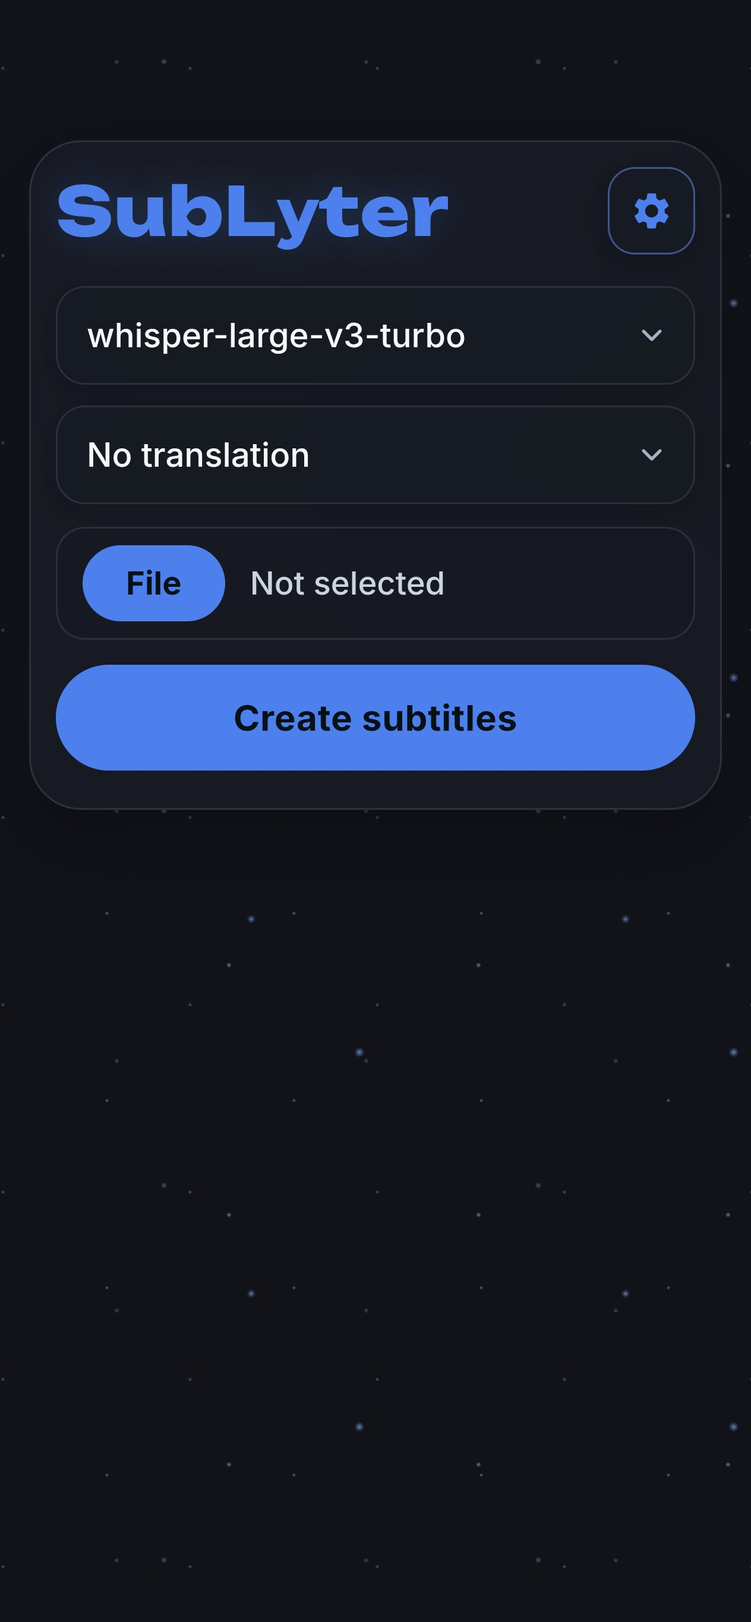
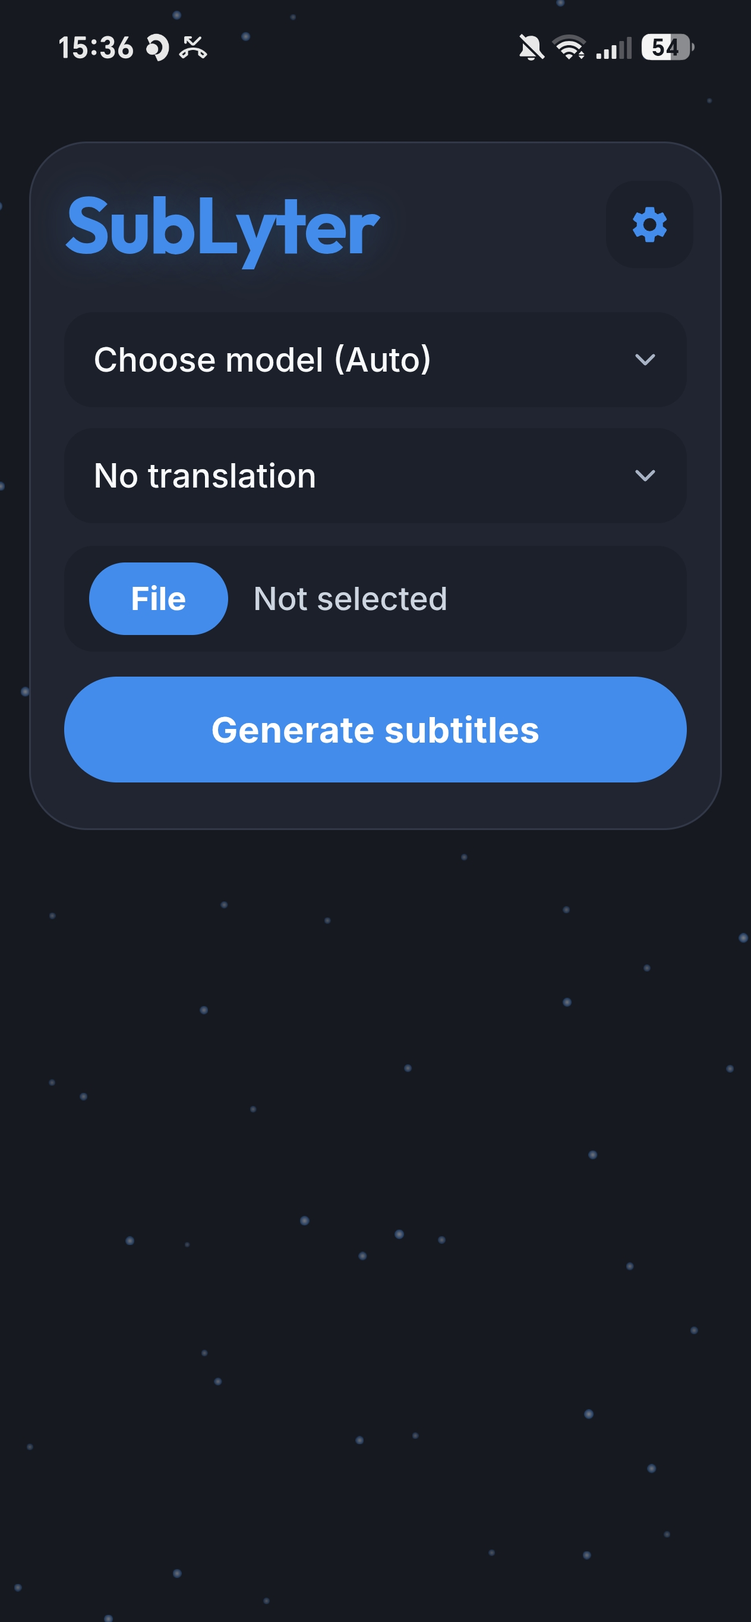
Update v1.0.79 screenshots and highlight Groq LPU ultra-fast inference

diff --git a/README.ru.md b/README.ru.md
@@ -9,13 +9,14 @@
 <h1>SubLyter</h1>
 
 <p>
-  <strong>Сверхбыстрая AI-студия субтитров, потоковый переводчик на 53 языка и мультимодальный видеоплеер с Gemini Q&amp;A для Android — в полноценном безрамочном интерфейсе Material You (Material 3).</strong>
+  <strong>Сверхбыстрая AI-студия субтитров на базе <a href="https://groq.com">Groq LPU™</a> (одного из самых быстрых AI-движков в мире), потоковый переводчик на 53 языка и мультимодальный видеоплеер с Gemini Q&amp;A для Android — в полноценном безрамочном интерфейсе Material You (Material 3).</strong>
 </p>
 
 <p>
   <a href="https://github.com/yusibov2026-hue/SubLater/releases/latest">
     <img src="https://img.shields.io/badge/Релиз-v1.0.79-1b8ef2?style=for-the-badge&logo=android&logoColor=white" alt="Последний релиз v1.0.79" />
   </a>
+  <img src="https://img.shields.io/badge/Groq%20LPU%E2%84%A2-Почти%20самый%20быстрый%20AI-f55036?style=for-the-badge&logo=lightning&logoColor=white" alt="На базе Groq LPU" />
   <img src="https://img.shields.io/badge/Android-7.0%2B%20(API%2024--34)-2ea043?style=for-the-badge&logo=android&logoColor=white" alt="Android 7.0+" />
   <img src="https://img.shields.io/badge/Kotlin%20%2B%20Compose-Media3%20ExoPlayer-7f52ff?style=for-the-badge&logo=kotlin&logoColor=white" alt="Kotlin Jetpack Compose Media3" />
   <img src="https://img.shields.io/badge/Дизайн-Material%20You%20(M3)-60a5fa?style=for-the-badge&logo=materialdesign&logoColor=white" alt="Material You M3" />
@@ -41,9 +42,9 @@
 
 ## ✨ Что такое SubLyter?
 
-**SubLyter** (`com.fromsub.app`) за считанные секунды превращает любое локальное видео или сетевой поток (`MP4`, `MKV`, `HLS .m3u8`, `DASH .mpd`, внешние ссылки из Stremio/Nuvio) в точные пословные субтитры с переводом на нужный язык, показывает их в адаптивном безрамочном плеере и позволяет задавать вопросы по видео мультимодальному Gemini AI.
+**SubLyter** (`com.fromsub.app`) за считанные секунды превращает любое локальное видео или сетевой поток (`MP4`, `MKV`, `HLS .m3u8`, `DASH .mpd`, внешние ссылки из Stremio/Nuvio) в точные пословные субтитры с переводом на нужный язык — на базе **Groq LPU™**, одного из самых быстрых AI-движков в мире, — а затем показывает их в адаптивном безрамочном плеере и позволяет задавать вопросы по видео мультимодальному Gemini AI.
 
-В отличие от простых обёрток, SubLyter объединяет **нативный многопоточный аудиодвижок на Media3** и **глубокий, продуманный интерфейс Material You (Material 3)** — с синхронизацией системной светлой/тёмной темы вплоть до нативного Compose-хоста и иконок статус-бара, 12 акцентными палитрами, 30 живыми GPU-обоями и 24 встроенными шрифтами.
+В отличие от простых обёрток, SubLyter объединяет **безумную скорость инференса Groq LPU™**, **нативный 4-поточный аудиодвижок на Media3** и **глубокий, продуманный интерфейс Material You (Material 3)** — с синхронизацией системной светлой/тёмной темы вплоть до нативного Compose-хоста и иконок статус-бара, 12 акцентными палитрами, 30 живыми GPU-обоями и 24 встроенными шрифтами.
 
 ---
 
@@ -52,33 +53,23 @@
 <div align="center">
 <table>
   <tr>
-    <td align="center" width="33%">
-      <img src="screenshots/1.jpg" alt="Главный экран SubLyter со снегопадом" width="230" /><br />
-      <sub><strong>Главный экран и «Снегопад»</strong><br/>Безрамочный минимализм и выбор модели Whisper</sub>
+    <td align="center" width="50%">
+      <img src="screenshots/1.jpg" alt="Главный экран SubLyter v1.0.79" width="250" /><br />
+      <sub><strong>Главный экран и обои «Снегопад»</strong><br/>Безрамочная карточка Material You, выбор модели Whisper (Auto), перевод и запуск в одно касание</sub>
     </td>
-    <td align="center" width="33%">
-      <img src="screenshots/4.jpg" alt="Извлечение аудио и встроенный плеер" width="230" /><br />
-      <sub><strong>Живое извлечение и плеер</strong><br/>Смотрите видео сразу, пока чанки загружаются</sub>
-    </td>
-    <td align="center" width="33%">
-      <img src="screenshots/5.jpg" alt="Полноэкранный плеер с субтитрами" width="230" /><br />
-      <sub><strong>Безрамочный Fullscreen</strong><br/>Чёткие пословные субтитры без чёрных полос</sub>
+    <td align="center" width="50%">
+      <img src="screenshots/2.jpg" alt="Настройки Material You и тем" width="250" /><br />
+      <sub><strong>Глубокая кастомизация Material You (M3)</strong><br/>Режимы Dark/Light/Auto, палитра из 12 акцентов, 5 фоновых тем, 30 живых GPU-обоев и прозрачность</sub>
     </td>
   </tr>
   <tr>
-    <td align="center" colspan="3">
-      <table>
-        <tr>
-          <td align="center" width="50%">
-            <img src="screenshots/3.jpg" alt="Настройки оформления Material You" width="230" /><br />
-            <sub><strong>Кастомизация Material You</strong><br/>Акценты, 5 фоновых тем, 30 живых обоев и шрифты</sub>
-          </td>
-          <td align="center" width="50%">
-            <img src="screenshots/2.jpg" alt="AI-модели, пул ключей и параметры генерации" width="230" /><br />
-            <sub><strong>AI-движок и пул ключей</strong><br/>Несколько ключей Groq, Gemini Q&amp;A, 16 кГц и импорт</sub>
-          </td>
-        </tr>
-      </table>
+    <td align="center" width="50%">
+      <img src="screenshots/3.jpg" alt="Шрифты заголовка и пул API-ключей Groq/Gemini" width="250" /><br />
+      <sub><strong>Типографика и пул ключей Groq + Gemini</strong><br/>24 офлайн-шрифта с превью (Outfit 33px), мультиключевое хранилище Groq с бейджем и кнопками <code>Get API</code></sub>
+    </td>
+    <td align="center" width="50%">
+      <img src="screenshots/4.jpg" alt="AI-модели, параметры генерации и диагностика" width="250" /><br />
+      <sub><strong>AI-модели, движок генерации и диагностика</strong><br/>Gemini 4 Hydrogen, GPT-OSS 120B, сжатие 16 кГц, режимы All at once / Progressive, импорт и <code>Copy log</code></sub>
     </td>
   </tr>
 </table>
@@ -88,10 +79,13 @@
 
 ## ⚡ Почему генерация настолько быстрая
 
+> **На базе Groq LPU™ — почти самый быстрый AI-инференс в мире:** Обычные облачные сервисы упираются в медленные очереди GPU. В SubLyter и распознавание речи Whisper (`whisper-large-v3-turbo` / `whisper-large-v3`), и потоковый перевод субтитров (`openai/gpt-oss-120b`, `openai/gpt-oss-20b`, `qwen/qwen3.6-27b`) работают на **архитектуре Groq LPU™ (Language Processing Unit)** — одном из самых быстрых AI-ускорителей в мире. В связке с 4-поточным нативным извлечением WAV и пулом нескольких ключей субтитры и перевод прилетают практически мгновенно.
+
 Весь конвейер SubLyter спроектирован с нуля под максимальную скорость от нажатия кнопки до появления первых субтитров:
 
 | Слой оптимизации | Как это работает под капотом |
 | :--- | :--- |
+| **Молниеносный инференс Groq LPU™** | Распознавание речи (`whisper-large-v3-turbo` по умолчанию) и перевод LLM работают на **аппаратных процессорах Groq LPU™** — одном из самых быстрых AI-решений в мире, обеспечивая почти мгновенную выдачу текста и тайм-кодов слов. |
 | **4-поточное нативное декодирование** | `AudioChunkExtractor.kt` нарезает локальный файл на динамические окна и декодирует до **4 параллельных потоков `MediaExtractor` + `MediaCodec`** напрямую в **16 кГц моно PCM16 WAV** — без медленного запуска консольного `ffmpeg`. |
 | **Потоковый захват быстрее реального времени** | Для сетевых потоков (HLS `.m3u8`, DASH `.mpd`, HTTP/HTTPS из Stremio/Nuvio) кастомный Media3 `AudioSink` (`StreamAudioCaptureSink.kt`) разбирает аудиопакеты на **максимальной скорости процессора**, а не со скоростью воспроизведения 1×. |
 | **Режим «Gradually / Progressive»** | Не нужно ждать конца фильма: субтитры транскрибируются, переводятся и подставляются в уже открытый плеер чанк за чанком. Режим **All at once** делит аудио на оптимальные окна 45–180 с и обрабатывает всё параллельно. |
@@ -179,7 +173,7 @@ flowchart LR
 
 ### 1. Установка на Android
 1. Скачайте актуальный APK со страницы **[GitHub Releases](https://github.com/yusibov2026-hue/SubLater/releases/latest)**.
-2. Откройте **Settings** (иконка шестерёнки) и вставьте один или несколько **Groq API-ключей** с [console.groq.com/keys](https://console.groq.com/keys).
+2. Откройте **Settings** (иконка шестерёнки) и вставьте один или несколько **Groq API-ключей** с [console.groq.com/keys](https://console.groq.com/keys), чтобы активировать сверхбыструю транскрибацию Whisper и перевод на 53 языка на Groq LPU™.
 3. *(Опционально)* Вставьте **Gemini API-ключ** с [aistudio.google.com/apikey](https://aistudio.google.com/apikey) для AI-чата по видео и кадрам.
 4. Выберите видео или откройте поток через **SubLyter**, при желании выберите язык перевода и нажмите **Create subtitles**.
 

diff --git a/README.md b/README.md
@@ -9,13 +9,14 @@
 <h1>SubLyter</h1>
 
 <p>
-  <strong>Ultra-fast AI subtitle studio, 53-language streaming translator, and multimodal Gemini video Q&amp;A player for Android — crafted with a deep, borderless Material You (Material 3) interface.</strong>
+  <strong>Ultra-fast AI subtitle studio powered by <a href="https://groq.com">Groq LPU™</a> (one of the world's fastest AI inference engines), 53-language streaming translator, and multimodal Gemini video Q&amp;A player for Android — crafted with a deep, borderless Material You (Material 3) interface.</strong>
 </p>
 
 <p>
   <a href="https://github.com/yusibov2026-hue/SubLater/releases/latest">
     <img src="https://img.shields.io/badge/Release-v1.0.79-1b8ef2?style=for-the-badge&logo=android&logoColor=white" alt="Latest Release v1.0.79" />
   </a>
+  <img src="https://img.shields.io/badge/Groq%20LPU%E2%84%A2-Near--World%20Fastest%20AI-f55036?style=for-the-badge&logo=lightning&logoColor=white" alt="Powered by Groq LPU" />
   <img src="https://img.shields.io/badge/Android-7.0%2B%20(API%2024--34)-2ea043?style=for-the-badge&logo=android&logoColor=white" alt="Android 7.0+" />
   <img src="https://img.shields.io/badge/Kotlin%20%2B%20Compose-Media3%20ExoPlayer-7f52ff?style=for-the-badge&logo=kotlin&logoColor=white" alt="Kotlin Jetpack Compose Media3" />
   <img src="https://img.shields.io/badge/Design-Material%20You%20(M3)-60a5fa?style=for-the-badge&logo=materialdesign&logoColor=white" alt="Material You M3" />
@@ -41,9 +42,9 @@
 
 ## ✨ What Is SubLyter?
 
-**SubLyter** (`com.fromsub.app`) turns any local video or network media stream (`MP4`, `MKV`, `HLS .m3u8`, `DASH .mpd`, Stremio/Nuvio intents) into word-synchronized, translated subtitles in seconds — then lets you watch in an adaptive borderless player and ask questions about the video using multimodal Gemini AI.
+**SubLyter** (`com.fromsub.app`) turns any local video or network media stream (`MP4`, `MKV`, `HLS .m3u8`, `DASH .mpd`, Stremio/Nuvio intents) into word-synchronized, translated subtitles in seconds — powered by **Groq LPU™**, one of the world's fastest AI inference engines — then lets you watch in an adaptive borderless player and ask questions about the video using multimodal Gemini AI.
 
-Unlike simple subtitle wrappers, SubLyter pairs a **native multi-threaded Android Media3 extraction engine** with a **full-featured Material You (Material 3) experience** — complete with dynamic Dark/Light/Auto native system integration, 12 accent color palettes, 30 GPU-accelerated live wallpapers, and 24 offline fonts.
+Unlike simple subtitle wrappers, SubLyter pairs **Groq's blistering LPU™ speech & LLM throughput** and a **native 4-thread Android Media3 extraction engine** with a **full-featured Material You (Material 3) experience** — complete with dynamic Dark/Light/Auto native system integration, 12 accent color palettes, 30 GPU-accelerated live wallpapers, and 24 offline fonts.
 
 ---
 
@@ -52,33 +53,23 @@ Unlike simple subtitle wrappers, SubLyter pairs a **native multi-threaded Androi
 <div align="center">
 <table>
   <tr>
-    <td align="center" width="33%">
-      <img src="screenshots/1.jpg" alt="SubLyter Main Screen with Snowfall" width="230" /><br />
-      <sub><strong>Main Studio &amp; Snowfall</strong><br/>Clean borderless controls &amp; Whisper model selector</sub>
+    <td align="center" width="50%">
+      <img src="screenshots/1.jpg" alt="SubLyter Main Screen v1.0.79" width="250" /><br />
+      <sub><strong>Main Studio &amp; Snowfall Wallpaper</strong><br/>Borderless Material You card, Whisper Auto model selector, translation picker &amp; one-tap subtitle generation</sub>
     </td>
-    <td align="center" width="33%">
-      <img src="screenshots/4.jpg" alt="Live Extraction & Adaptive Video Player" width="230" /><br />
-      <sub><strong>Live Audio Extraction &amp; Player</strong><br/>Watch immediately while chunks stream in</sub>
-    </td>
-    <td align="center" width="33%">
-      <img src="screenshots/5.jpg" alt="Fullscreen Word-by-Word Subtitles" width="230" /><br />
-      <sub><strong>Borderless Fullscreen Playback</strong><br/>Crisp live subtitles with adaptive aspect ratio</sub>
+    <td align="center" width="50%">
+      <img src="screenshots/2.jpg" alt="Material You & Theme Settings" width="250" /><br />
+      <sub><strong>Deep Material You (M3) Customization</strong><br/>Dark/Light/Auto appearance, 12-swatch tonal accent grid, 5 background themes, 30 GPU wallpapers &amp; opacity slider</sub>
     </td>
   </tr>
   <tr>
-    <td align="center" colspan="3">
-      <table>
-        <tr>
-          <td align="center" width="50%">
-            <img src="screenshots/3.jpg" alt="Material You Appearance Settings" width="230" /><br />
-            <sub><strong>Material You Customization</strong><br/>Accent colors, 5 surface themes, 30 live wallpapers &amp; fonts</sub>
-          </td>
-          <td align="center" width="50%">
-            <img src="screenshots/2.jpg" alt="AI Models, Multi-Key Pool & Pipeline Options" width="230" /><br />
-            <sub><strong>AI Engine &amp; Multi-Key Pool</strong><br/>Unlimited Groq keys, Gemini Q&amp;A, 16 kHz fast mode &amp; import</sub>
-          </td>
-        </tr>
-      </table>
+    <td align="center" width="50%">
+      <img src="screenshots/3.jpg" alt="Title Typography & Multi-Key Groq Pool" width="250" /><br />
+      <sub><strong>Typography, Playback &amp; Multi-Key Pool</strong><br/>24 offline title fonts with live preview + multi-key Groq &amp; Gemini vaults with live key badge and <code>Get API</code> shortcuts</sub>
+    </td>
+    <td align="center" width="50%">
+      <img src="screenshots/4.jpg" alt="AI Models, Generation Pipeline & Diagnostics" width="250" /><br />
+      <sub><strong>AI Models, Speed Engine &amp; Diagnostics</strong><br/>Gemini 4 Hydrogen, GPT-OSS 120B, 16 kHz fast audio, Progressive/Batch mode, SRT/VTT import &amp; one-tap <code>Copy log</code></sub>
     </td>
   </tr>
 </table>
@@ -88,10 +79,13 @@ Unlike simple subtitle wrappers, SubLyter pairs a **native multi-threaded Androi
 
 ## ⚡ Why Generation Is So Fast
 
+> **Powered by Groq LPU™ — Almost the Fastest AI Inference in the World:** Traditional cloud transcription waits on conventional GPU queues. SubLyter runs Whisper speech-to-text (`whisper-large-v3-turbo` / `whisper-large-v3`) and streaming subtitle translation (`openai/gpt-oss-120b`, `openai/gpt-oss-20b`, `qwen/qwen3.6-27b`) on **Groq's custom Language Processing Unit (LPU™)** architecture — delivering near-instant inference latency that turns minutes of audio into word-level timestamps in seconds. Combined with our 4-thread native WAV pipeline and multi-key rotation, the whole app feels instantaneous.
+
 SubLyter is engineered end-to-end to minimize waiting time from tap to first subtitle:
 
 | Optimization Layer | How It Works |
 | :--- | :--- |
+| **Groq LPU™ Hyper-Speed Inference** | Speech recognition (`whisper-large-v3-turbo` by default) and LLM translation run on **Groq LPU™ hardware** — one of the fastest AI inference engines in the world — transcribing and translating chunks with ultra-low latency. |
 | **4-Thread Native Audio Extraction** | `AudioChunkExtractor.kt` splits local videos into dynamic time windows and decodes them across up to **4 parallel `MediaExtractor` + `MediaCodec` threads** directly to **16 kHz mono PCM16 WAV** — no heavy shell `ffmpeg` spawning overhead. |
 | **Zero-Sleep Stream Capture** | For network streams (HLS `.m3u8`, DASH `.mpd`, HTTP/HTTPS from Stremio/Nuvio), a custom Media3 `AudioSink` (`StreamAudioCaptureSink.kt`) decodes packets at **maximum CPU throughput** rather than 1× real-time playback speed. |
 | **Progressive Live Streaming** | In **Progressive** mode, you do not wait for the entire movie to finish: chunks are transcribed, translated, and injected into the active player chunk-by-chunk while you watch. **All at once** mode uses dynamic 45–180s parallel windows for rapid batch generation. |
@@ -207,7 +201,7 @@ tests/
 
 ### 1. Install on Android
 1. Download the latest APK from **[GitHub Releases](https://github.com/yusibov2026-hue/SubLater/releases/latest)**.
-2. Open **Settings** (gear icon) and paste one or more **Groq API keys** from [console.groq.com/keys](https://console.groq.com/keys) (one per line or comma-separated).
+2. Open **Settings** (gear icon) and paste one or more **Groq API keys** from [console.groq.com/keys](https://console.groq.com/keys) (one per line or comma-separated) to unlock Groq LPU™ hyper-fast Whisper transcription & 53-language translation.
 3. *(Optional)* Add a **Gemini API key** from [aistudio.google.com/apikey](https://aistudio.google.com/apikey) to unlock Multimodal Video Q&A.
 4. Pick any video or open a stream externally with **SubLyter**, choose a target translation language (optional), and tap **Create subtitles**.
 

diff --git a/MEMORIA.md b/MEMORIA.md
@@ -27,3 +27,4 @@
 - 2026-11-23: Архитектурный рефакторинг и укрепление надёжности («как скала»): `ExoPlayerManager.kt` разбит на `WavChunkWriter.kt`, `SecureKeyVault.kt` (прогрев вне UI-потока), `EmbeddedSubtitleExtractor.kt`, `SubtitleExporter.kt`, `AudioChunkExtractor.kt` (фикс HTTP `200` в `buildChunkStreamResponse`, токен сессии `activeSessionId`, защита Path Traversal, откат при сбое параллельных окон), `NativeBridge.kt`; в `SubtitleForegroundService.kt` включён `START_NOT_STICKY`; в `MainActivity.kt` подключён `WebViewAssetLoader`, отключены `allowFileAccessFromFileURLs`/`allowUniversalAccessFromFileURLs`/`MIXED_CONTENT_ALWAYS_ALLOW`; `AndroidManifest.xml` защищён `allowBackup="false"` и `network_security_config.xml`; R8 включён для `release` (`proguard-rules.pro`); `index.html` разбит на `styles/*.css` и `js/*.js` (единый `createLivePipeline`, `O(W+S)`/`O(log N)` субтитры, `parseSubtitleText` trim fix, `KeyPool` с кулдаунами 429, один коннект `IndexedDB`, удаление monkey-patch свойств `<video>` при смене с ExoPlayer на HTML5, событийный nativeSync без опроса на паузе, заголовок `x-goog-api-key` для Gemini) + автотесты `node --test tests/*.test.mjs`.
 - 2026-11-23: Выпущена версия `1.0.79` (`versionCode = 79`, `com.fromsub.app`): второй проход полировки — убраны все предупреждения компилятора Kotlin (`MainActivity.kt`, `AudioChunkExtractor.kt`), сессионная изоляция чанков (`chunk_s${sessionId}_*.wav`), колбэки `StreamAudioCaptureSink` вынесены из-под `ioLock`, событийный пуш состояния воспроизведения `__onNativePlaybackStateChanged` + корректный захват кадра HTTP/HTTPS в `ExoPlayerManager.kt` + логирование `Log.w`, фейловер ключей Groq при HTTP 401 (`KeyPool.markInvalid`/`reset`), кнопка «Copy log» и `diagnostics.formatLogsText()`, замена немых `catch` на `diag.logWarn`, расширены юнит-тесты (`diagnostics.test.mjs`, 401/429 и субтитры); коммит в `main`, сборка APK и релиз `v1.0.79`.
 - 2026-11-23: Добавлена подробная документация для GitHub: `README.md` (EN), `README.ru.md` (RU), векторный баннер `docs/banner.svg`, реальные скриншоты (`screenshots/1.jpg`–`5.jpg`), описание скорости конвейера, Material You (M3) и архитектуры; обновлены описание и теги репозитория в GitHub (`gh repo edit`).
+- 2026-11-23: Обновлены скриншоты v1.0.79 (`screenshots/1.jpg`–`4.jpg` из `adjuntos/34668`–`34671.jpg`, удалён `5.jpg`), усилен акцент на **Groq LPU™** (почти самый быстрый AI-инференс в мире) в `docs/banner.svg`, `README.md`, `README.ru.md` и описании репозитория GitHub.
